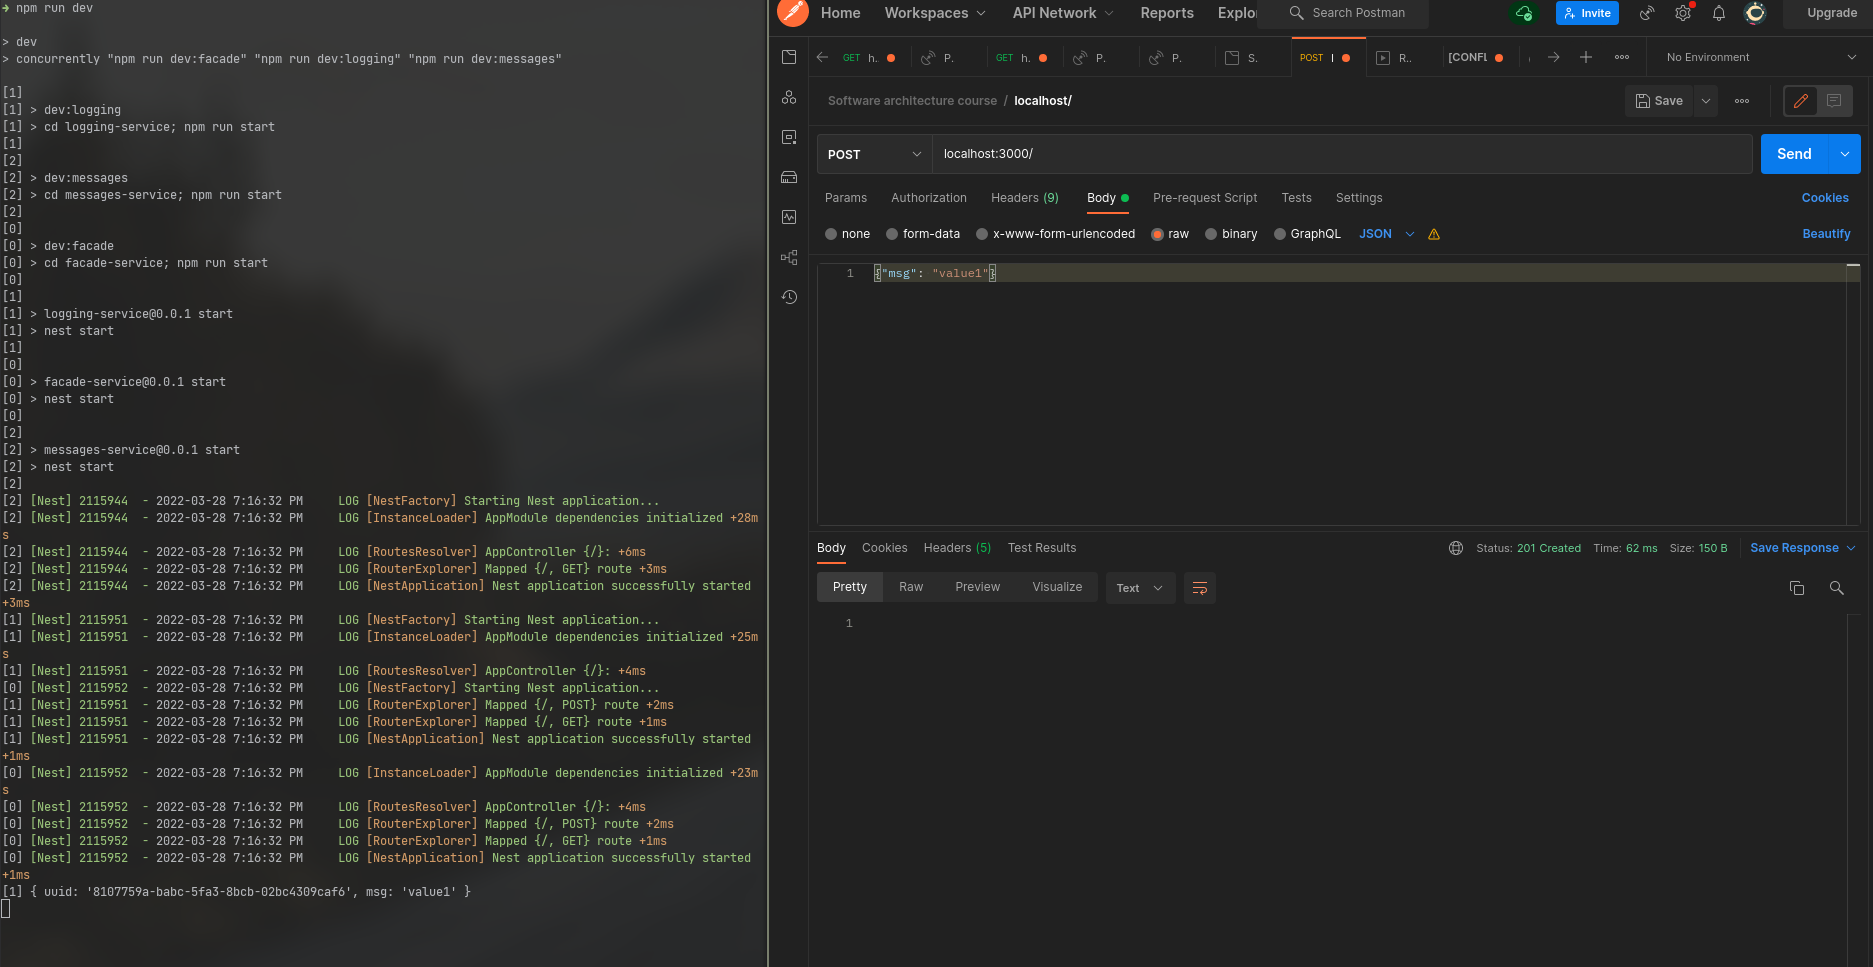
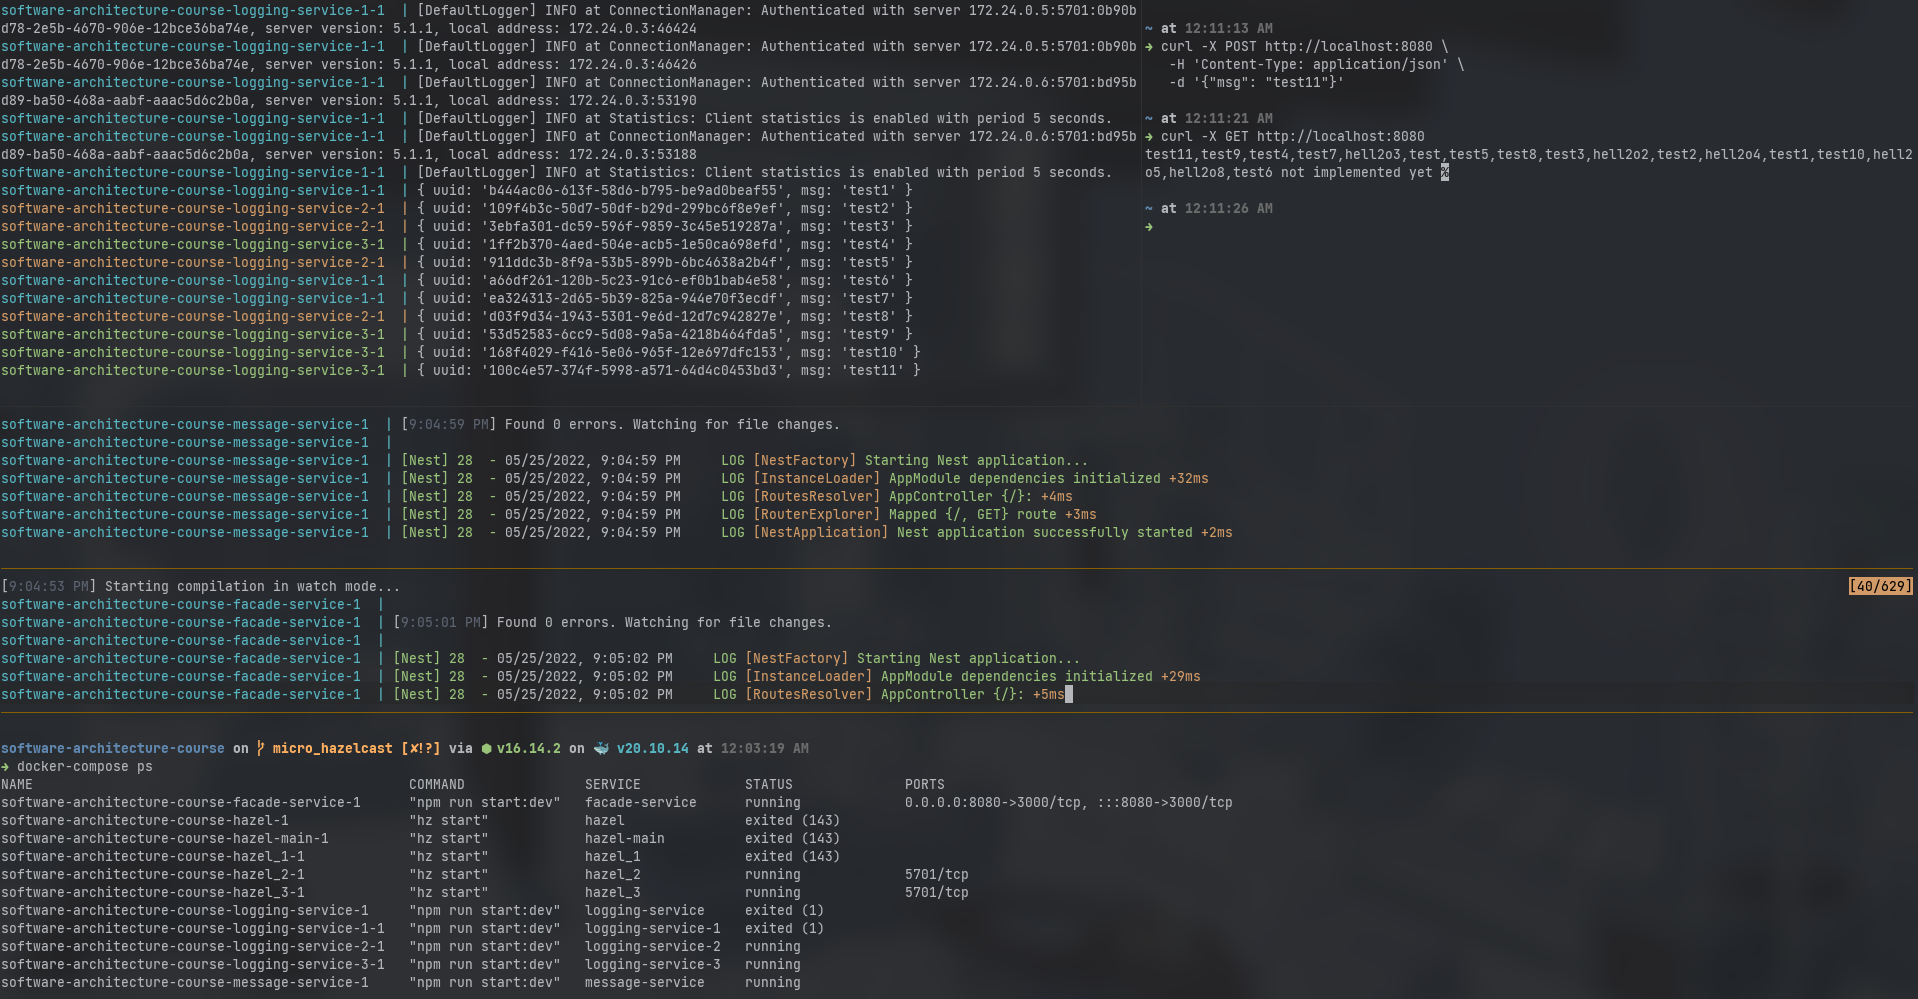
finished the task3

diff --git a/facade-service/src/app.service.ts b/facade-service/src/app.service.ts
@@ -2,15 +2,25 @@ import { Injectable } from '@nestjs/common'
 
 import axios from 'axios'
 import getUuid from 'uuid-by-string'
+import _ from 'lodash'
 
 @Injectable()
 export class AppService {
-  private LOGGING_SERVICE_BASE_URI = 'http://localhost:3001'
-  private MESSAGE_SERVICE_BASE_URI = 'http://localhost:3002'
+  private MESSAGE_SERVICE_BASE_URI = 'http://message-service:3002'
+  private LOGGING_SERVICE_BASE_URI = [
+    'http://logging-service-1:3001',
+    'http://logging-service-2:3001',
+    'http://logging-service-3:3001',
+  ]
+
+  private getRandomLogger(): string {
+    const tmp = _.sample(this.LOGGING_SERVICE_BASE_URI)
+    return tmp
+  }
 
   async logData(data: any) {
     await axios.request({
-      url: `${this.LOGGING_SERVICE_BASE_URI}/`,
+      url: this.getRandomLogger(),
       method: 'post',
       data,
       headers: { 'Content-Type': 'application/json' },
@@ -19,7 +29,7 @@ export class AppService {
 
   async retrieveLogData(): Promise<Array<string>> {
     const response = await axios.request({
-      url: `${this.LOGGING_SERVICE_BASE_URI}/`,
+      url: this.getRandomLogger(),
       method: 'get',
     })
     return response.data
@@ -27,7 +37,7 @@ export class AppService {
 
   async reqMessageService() {
     const response = await axios.request({
-      url: `${this.MESSAGE_SERVICE_BASE_URI}`,
+      url: this.MESSAGE_SERVICE_BASE_URI,
       method: 'get',
     })
     return response.data

diff --git a/logging-service/src/hazel/hazel.service.ts b/logging-service/src/hazel/hazel.service.ts
@@ -1,0 +1,36 @@
+import { Injectable } from '@nestjs/common'
+import { Client, IMap } from 'hazelcast-client'
+
+@Injectable()
+export class HazelService {
+  private hz: Promise<Client>
+
+  constructor() {
+    this.hz = Client.newHazelcastClient({
+      clusterName: 'hazel_intro',
+      network: {
+        clusterMembers: [`${process.env.HAZEL_NODE}:5701`],
+      },
+    })
+  }
+
+  private async getMap(): Promise<IMap<any, any>> {
+    const client = await this.hz
+    return await client.getMap('micro_hazelcast-map')
+  }
+
+  async put(key, value) {
+    const map = await this.getMap()
+    return await map.put(key, value)
+  }
+
+  async get(key) {
+    const map = await this.getMap()
+    return await map.get(key)
+  }
+
+  async values() {
+    const map = await this.getMap()
+    return await map.values()
+  }
+}

diff --git a/logging-service/src/app.service.ts b/logging-service/src/app.service.ts
@@ -1,14 +1,15 @@
 import { Injectable } from '@nestjs/common'
+import { HazelService } from './hazel/hazel.service'
 
 @Injectable()
 export class AppService {
-  private cache = new Map<string, string>()
+  private cache = new HazelService()
 
-  saveData({ uuid, msg }) {
-    this.cache.set(uuid, msg)
+  async saveData({ uuid, msg }) {
+    await this.cache.put(uuid, msg)
   }
 
-  loadData(): string {
-    return Array.from(this.cache.values()).join(',')
+  async loadData(): Promise<string> {
+    return Array.from(await this.cache.values()).join(',')
   }
 }

diff --git a/logging-service/src/app.module.ts b/logging-service/src/app.module.ts
@@ -1,10 +1,12 @@
 import { Module } from '@nestjs/common'
 import { AppController } from './app.controller'
 import { AppService } from './app.service'
+import { HazelService } from './hazel/hazel.service';
+import { HazelModule } from './hazel/hazel.module';
 
 @Module({
-  imports: [],
+  imports: [HazelModule],
   controllers: [AppController],
-  providers: [AppService],
+  providers: [AppService, HazelService],
 })
 export class AppModule {}

diff --git a/logging-service/src/hazel/hazel.module.ts b/logging-service/src/hazel/hazel.module.ts
@@ -1,0 +1,9 @@
+import { Global, Module } from '@nestjs/common'
+import { HazelService } from './hazel.service'
+
+@Global()
+@Module({
+  providers: [HazelService],
+  exports: [HazelService],
+})
+export class HazelModule {}

diff --git a/README.md b/README.md
@@ -1,17 +1,25 @@
 # software-architecture-course
 
-### Install dependencies:
-`npm i && cd facade-service && npm i && cd ../messages-service && npm i && cd ../logging-service && npm i && cd ..`
+### Initialization
+`docker-compose build`
 
-#### Run each service individually:
-- `cd facade-service && npm run start`
-- `cd messages-service && npm run start`
-- `cd logging-service && npm run start`
 
-#### Run all services simultaneously:
-- `npm run dev`
+### Run each service separately
+- logging
+    `docker-compose up logging-service-1 logging-service-2 logging-service-3`
+- facade
+    `docker-compose up facade-service`
+- messages
+    `docker-compose up message-service`
+
+### Run everything
+`docker-compose facade-service`
 
 ### Example:
-![1 POST request](/res/screenshot_1.png)
-![2 POST request](/res/screenshot_2.png)
-![3 GET request](/res/screenshot_3.png)
+- Task1: 10 messages written & retrieved
+
+    ![1 screenshot](/res/screenshot_1.png)
+- Task2: 2 logging services disabled & msg retrieve
+
+    ![2 screenshot](/res/screenshot_2.png)
+
